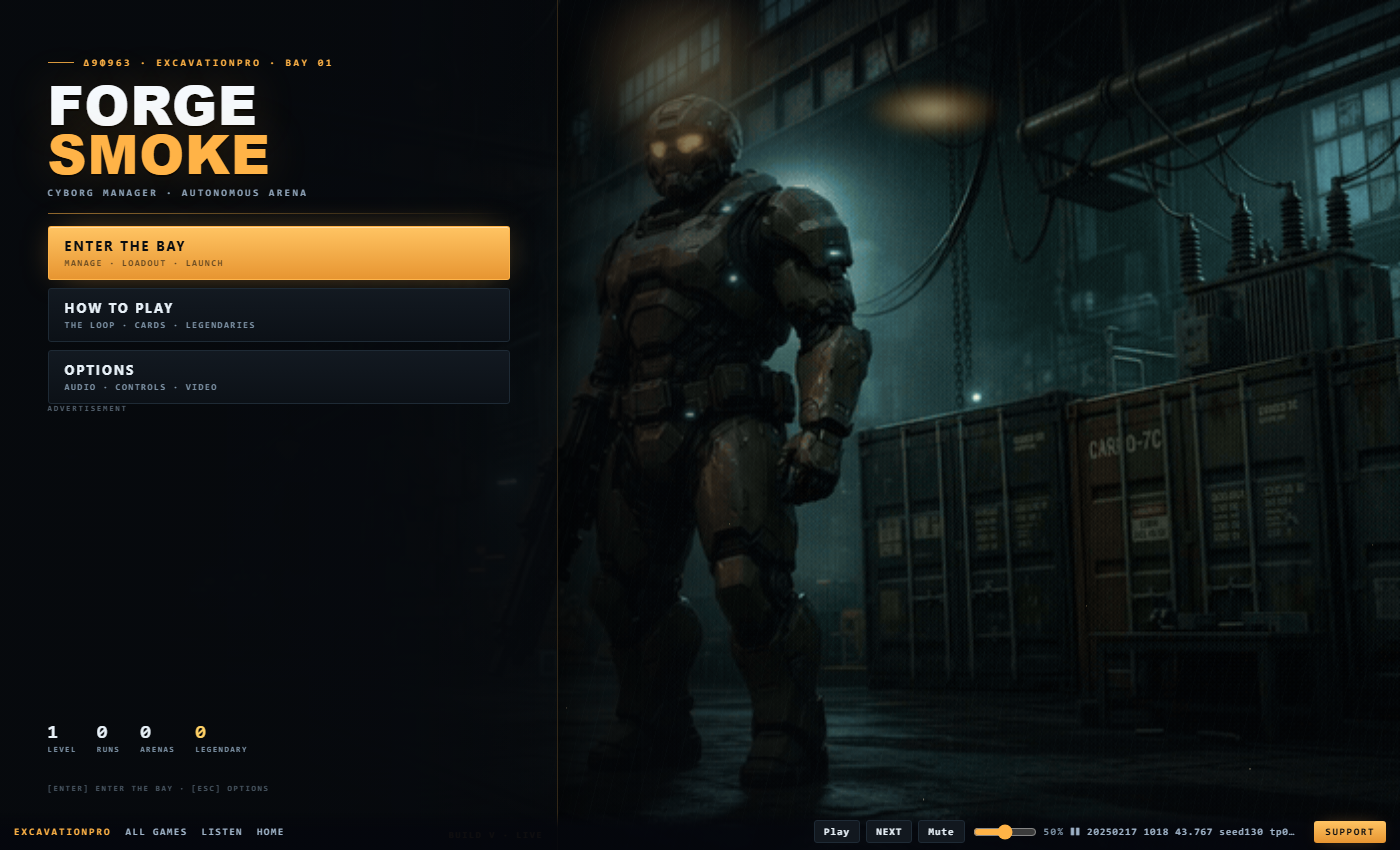
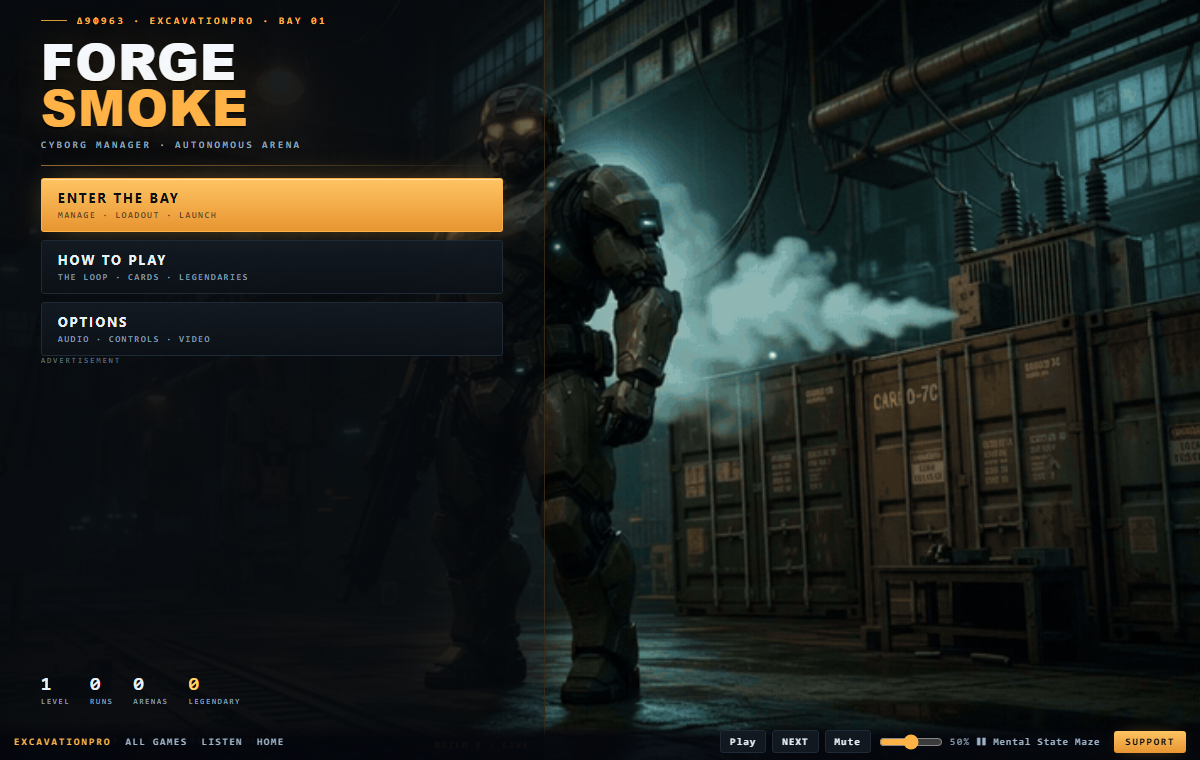
Start screen: the supplied video is now an explicit animated GIF element (regenerated from 'Forge Smoke background start page.mp4', 800x450/10fps, 9.2 MB) instead of a CSS background, so browsers and webviews cannot pause or replace it. Poster stays underneath as fallback.

diff --git a/src/main.js b/src/main.js
@@ -1,8 +1,8 @@
 import * as THREE from "three";
-import { FlowPhase, installStudio, makeRng } from "./studio.js?v=202610324d";
-import { standardMaterial } from "./materials.js?v=202610324d";
-import { makeBush, makeLog, makeTree, swayTree } from "./foliage.js?v=202610324d";
-import { generateWeaponIconAtlas, getWeaponIconUV, createWeaponIconMesh, STYLE_ICON_INDEX, generateWeaponIconDataUrls, loadWeaponIconSheetDataUrls } from "./icons.js?v=202610324d";
+import { FlowPhase, installStudio, makeRng } from "./studio.js?v=202610324e";
+import { standardMaterial } from "./materials.js?v=202610324e";
+import { makeBush, makeLog, makeTree, swayTree } from "./foliage.js?v=202610324e";
+import { generateWeaponIconAtlas, getWeaponIconUV, createWeaponIconMesh, STYLE_ICON_INDEX, generateWeaponIconDataUrls, loadWeaponIconSheetDataUrls } from "./icons.js?v=202610324e";
 import {
   PALETTE,
   TYPE_SCALE,
@@ -12,25 +12,25 @@ import {
   ARENA_LIGHTING,
   POINT_LIGHT_SCALE,
   hexInt,
-} from "./theme.js?v=202610324d";
-import { TUNING } from "./tuning.js?v=202610324d";
-import { spawnDamageNumber, updateDamageNumbers, clearDamageNumbers } from "./damageNumbers.js?v=202610324d";
-import { WeaponManager, CardSystem, Weapon, STYLE_VFX, GRENADE_STYLES } from "./weapons.js?v=202610324d";
-import { createCardTray } from "./cardsui.js?v=202610324d";
-import { buildBrandProps } from "./branding.js?v=202610324d";
-import { createSummary } from "./summaryui.js?v=202610324d";
-import { createBarks } from "./barks.js?v=202610324d";
-import { EnemyManager, ENEMY_TYPES } from "./enemies.js?v=202610324d";
-import { BeatDirector, ScoreSystem, ResultsScreen } from "./director.js?v=202610324d";
-import { bossHp } from "./balance.js?v=202610324d";
-import { loadSave, saveSave, updateBestScore, updateBestTime, getSettings, updateSettings, DEFAULT_SAVE, addProfileXp, grantLegacy, saveProfile } from "./save.js?v=202610324d";
-import { pilot } from "./autopilot.js?v=202610324d";
-import { createManager, statsForLevel, applyStatsToRun, LIGHT_MODS, PERKS } from "./manager.js?v=202610324d";
-import { createStartMenu } from "./startmenu.js?v=202610324d";
-import { createGamepad } from "./gamepad.js?v=202610324d";
-import { createTalentWindow } from "./talentui.js?v=202610324d";
-import { aggregate, toRunMods } from "./talents.js?v=202610324d";
-import { bakeProceduralArtSprites, PROCEDURAL_ART_MODULES } from "./art/index.js?v=202610324d";
+} from "./theme.js?v=202610324e";
+import { TUNING } from "./tuning.js?v=202610324e";
+import { spawnDamageNumber, updateDamageNumbers, clearDamageNumbers } from "./damageNumbers.js?v=202610324e";
+import { WeaponManager, CardSystem, Weapon, STYLE_VFX, GRENADE_STYLES } from "./weapons.js?v=202610324e";
+import { createCardTray } from "./cardsui.js?v=202610324e";
+import { buildBrandProps } from "./branding.js?v=202610324e";
+import { createSummary } from "./summaryui.js?v=202610324e";
+import { createBarks } from "./barks.js?v=202610324e";
+import { EnemyManager, ENEMY_TYPES } from "./enemies.js?v=202610324e";
+import { BeatDirector, ScoreSystem, ResultsScreen } from "./director.js?v=202610324e";
+import { bossHp } from "./balance.js?v=202610324e";
+import { loadSave, saveSave, updateBestScore, updateBestTime, getSettings, updateSettings, DEFAULT_SAVE, addProfileXp, grantLegacy, saveProfile } from "./save.js?v=202610324e";
+import { pilot } from "./autopilot.js?v=202610324e";
+import { createManager, statsForLevel, applyStatsToRun, LIGHT_MODS, PERKS } from "./manager.js?v=202610324e";
+import { createStartMenu } from "./startmenu.js?v=202610324e";
+import { createGamepad } from "./gamepad.js?v=202610324e";
+import { createTalentWindow } from "./talentui.js?v=202610324e";
+import { aggregate, toRunMods } from "./talents.js?v=202610324e";
+import { bakeProceduralArtSprites, PROCEDURAL_ART_MODULES } from "./art/index.js?v=202610324e";
 import {
   PLAYER_SKINS,
   STARTER_LOADOUTS,
@@ -46,20 +46,20 @@ import {
   buildBossMesh,
   segmentHitsCollider,
   warmGlbAssets,
-} from "./models.js?v=202610324d";
-import * as levelModule from "./level.js?v=202610324d";
-import * as menuModule from "./menu.js?v=202610324d";
-import * as audioModule from "./audio.js?v=202610324d";
-import * as fxModule from "./fx.js?v=202610324d";
-import { MAPS, mapById, selectMap } from "./maps.js?v=202610324d";
-import { PICKUP_DEFS, planPickupSites, choosePickup, speedMultiplier, powerMultiplier, HEALTH_SPACING } from "./pickups.js?v=202610324d";
+} from "./models.js?v=202610324e";
+import * as levelModule from "./level.js?v=202610324e";
+import * as menuModule from "./menu.js?v=202610324e";
+import * as audioModule from "./audio.js?v=202610324e";
+import * as fxModule from "./fx.js?v=202610324e";
+import { MAPS, mapById, selectMap } from "./maps.js?v=202610324e";
+import { PICKUP_DEFS, planPickupSites, choosePickup, speedMultiplier, powerMultiplier, HEALTH_SPACING } from "./pickups.js?v=202610324e";
 
 // D3: one readable build stamp, so a stale module in the console is obvious.
 const BUILD = new URL(import.meta.url).searchParams.get("v") || "dev";
 window.__forgeBuild = BUILD;
 console.info("[forge] BUILD " + BUILD);
-import { createCasings } from "./casings.js?v=202610324d";
-import { feelFor, kickImpulse, tracerTaper } from "./stylefeel.js?v=202610324d";
+import { createCasings } from "./casings.js?v=202610324e";
+import { feelFor, kickImpulse, tracerTaper } from "./stylefeel.js?v=202610324e";
 
 const TAU = Math.PI * 2;
 const urlParams = new URLSearchParams(window.location.search);

diff --git a/src/startmenu.js b/src/startmenu.js
@@ -7,7 +7,7 @@
  *
  * Pure DOM. The 3D turntable still runs behind, so if the art is missing the screen still looks alive.
  */
-import { xpForLevel } from "./save.js?v=202610324d";
+import { xpForLevel } from "./save.js?v=202610324e";
 
 const ART = "./assets/start-bg.gif";
 
@@ -30,10 +30,13 @@ const CSS = `
 }
 #fs-start.art{background-image:
     linear-gradient(90deg,rgba(5,7,10,.975) 0%,rgba(5,7,10,.94) 26%,rgba(5,7,10,.60) 44%,rgba(5,7,10,.18) 58%,rgba(5,7,10,0) 70%),
-    url("${ART}");
-  background-size:100% 100%,cover,cover;
+    url("./assets/start-bg-poster.jpg");
+  background-size:100% 100%,cover;
   background-position:center,center;
   background-repeat:no-repeat,no-repeat}
+#fs-start .artgif{position:absolute;inset:0;width:100%;height:100%;object-fit:cover;
+  object-position:center right;opacity:0;transition:opacity .6s ease;pointer-events:none}
+#fs-start.art .artgif{opacity:1}
 #fs-start .artvid{position:absolute;inset:0;width:100%;height:100%;object-fit:cover;opacity:0;
   transition:opacity .7s ease;pointer-events:none}
 #fs-start.playing .artvid{opacity:1}
@@ -157,6 +160,7 @@ export function createStartMenu(opts = {}) {
   root.id = "fs-start";
   root.innerHTML = `
     <div class="artwrap"></div>
+    <img class="artgif" src="./assets/start-bg.gif" alt="" aria-hidden="true" decoding="async" />
     <div class="artfx" aria-hidden="true">
       <i class="lamp"></i>
       <i class="eyes"></i>
@@ -242,11 +246,16 @@ export function createStartMenu(opts = {}) {
     render();
     mountAd();
     root.classList.add("open");
-    // probe the art once; if it is missing the gradient stands in
-    const img = new Image();
-    img.onload = () => root.classList.add("art");
-    img.onerror = () => root.classList.remove("art");
-    img.src = ART;
+    // the GIF element is the backdrop; if it fails the poster/gradient stands in
+    const gif = q(".artgif");
+    if (gif) {
+      const mark = () => root.classList.add("art");
+      if (gif.complete && gif.naturalWidth > 0) mark();
+      else {
+        gif.addEventListener("load", mark, { once: true });
+        gif.addEventListener("error", () => root.classList.remove("art"), { once: true });
+      }
+    }
   }
   function hide() {
     root.classList.remove("open");

diff --git a/src/art/index.js b/src/art/index.js
@@ -1,11 +1,11 @@
-import { draw as drawWeaponSilhouette } from "./weapon_silhouette_module.js?v=202610324d";
-import { draw as drawEnemySilhouette } from "./enemy_silhouette_module.js?v=202610324d";
-import { draw as drawBossSilhouette } from "./boss_silhouette_module.js?v=202610324d";
-import { draw as drawGroundTexture } from "./ground_texture_module.js?v=202610324d";
-import { draw as drawWallTexture } from "./wall_texture_module.js?v=202610324d";
-import { draw as drawCardIconSheet } from "./card_icon_sheet_module.js?v=202610324d";
-import { draw as drawMuzzleFlash } from "./muzzle_flash_module.js?v=202610324d";
-import { draw as drawImpactSpark } from "./impact_spark_module.js?v=202610324d";
+import { draw as drawWeaponSilhouette } from "./weapon_silhouette_module.js?v=202610324e";
+import { draw as drawEnemySilhouette } from "./enemy_silhouette_module.js?v=202610324e";
+import { draw as drawBossSilhouette } from "./boss_silhouette_module.js?v=202610324e";
+import { draw as drawGroundTexture } from "./ground_texture_module.js?v=202610324e";
+import { draw as drawWallTexture } from "./wall_texture_module.js?v=202610324e";
+import { draw as drawCardIconSheet } from "./card_icon_sheet_module.js?v=202610324e";
+import { draw as drawMuzzleFlash } from "./muzzle_flash_module.js?v=202610324e";
+import { draw as drawImpactSpark } from "./impact_spark_module.js?v=202610324e";
 
 export const PROCEDURAL_ART_MODULES = {
   weaponSilhouette: drawWeaponSilhouette,

diff --git a/src/assets.js b/src/assets.js
@@ -3,7 +3,7 @@
  * which files made by studio tools (Blender first) enter a game. Nothing here downloads:
  * `assets/<name>.glb` is committed with the game, served by the studio and copied by export.
  *
- *   import { loadAsset } from "./assets.js?v=202610324d";
+ *   import { loadAsset } from "./assets.js?v=202610324e";
  *   const dog = await loadAsset("dog", { tag: "dog", scale: 0.6 });   // a Group tagged "dog"
  *   scene.add(dog);
  *
@@ -20,7 +20,7 @@ import * as THREE from "three";
 import { GLTFLoader } from "three/addons/loaders/GLTFLoader.js";
 import { MeshoptDecoder } from "three/addons/libs/meshopt_decoder.module.js";
 import { KTX2Loader } from "three/addons/loaders/KTX2Loader.js";
-import { KINDS, bakeTexture } from "./materials.js?v=202610324d";
+import { KINDS, bakeTexture } from "./materials.js?v=202610324e";
 
 const loader = new GLTFLoader().setMeshoptDecoder(MeshoptDecoder);
 /** Call once after creating the renderer before loading Genex KTX2 desktop variants. */

diff --git a/src/manager.js b/src/manager.js
@@ -8,10 +8,10 @@
  * This module is pure DOM. It never touches the renderer: the 3D operator turntable keeps running
  * behind it, so the character model IS the preview.
  */
-import { ARENAS, isArenaUnlocked } from "./menu.js?v=202610324d";
-import { STARTER_LOADOUTS, PLAYER_SKINS } from "./models.js?v=202610324d";
-import { addProfileXp, grantLegacy, saveProfile, xpForLevel } from "./save.js?v=202610324d";
-import { TUNING } from "./tuning.js?v=202610324d";
+import { ARENAS, isArenaUnlocked } from "./menu.js?v=202610324e";
+import { STARTER_LOADOUTS, PLAYER_SKINS } from "./models.js?v=202610324e";
+import { addProfileXp, grantLegacy, saveProfile, xpForLevel } from "./save.js?v=202610324e";
+import { TUNING } from "./tuning.js?v=202610324e";
 
 /** Light mods are cards. `starter` ones can be taken as equipped cards; the rest are found/earned. */
 export const LIGHT_MODS = [

diff --git a/src/foliage.js b/src/foliage.js
@@ -9,7 +9,7 @@
  * transparent gaps, scattered through an ellipsoid. The silhouette breaks, light passes
  * through, the underside darkens, and it sways as a whole.
  *
- *   import { makeTree, makeBush, makeLogPile, swayTree } from "./foliage.js?v=202610324d";
+ *   import { makeTree, makeBush, makeLogPile, swayTree } from "./foliage.js?v=202610324e";
  *   const oak = makeTree({ height: 8, spread: 4, seed: 12 });   // tag "tree"
  *   scene.add(oak);                                              // in update(): swayTree(oak, t, wind)
  *
@@ -17,7 +17,7 @@
  * DataTexture), so it runs under the harness's evaluator as well as in the game.
  */
 import * as THREE from "three";
-import { makeRng, standardMaterial } from "./materials.js?v=202610324d";
+import { makeRng, standardMaterial } from "./materials.js?v=202610324e";
 
 const TAU = Math.PI * 2;
 

diff --git a/src/models.js b/src/models.js
@@ -6,9 +6,9 @@
 import * as THREE from "three";
 import { GLTFLoader } from "three/addons/loaders/GLTFLoader.js";
 import { clone as skeletonClone } from "three/addons/utils/SkeletonUtils.js";
-import { standardMaterial, bakeTexture } from "./materials.js?v=202610324d";
-import { PALETTE, hexInt } from "./theme.js?v=202610324d";
-import { mapById, PROP_COLLIDERS } from "./maps.js?v=202610324d";
+import { standardMaterial, bakeTexture } from "./materials.js?v=202610324e";
+import { PALETTE, hexInt } from "./theme.js?v=202610324e";
+import { mapById, PROP_COLLIDERS } from "./maps.js?v=202610324e";
 
 export const PLAYER_SKINS = [
   {

diff --git a/src/materials.js b/src/materials.js
@@ -5,7 +5,7 @@
  * from every camera, and a whole run shipped exactly that. Everything here bakes on a canvas
  * from a seed, so two builds on one seed produce the same pixels.
  *
- *   import { bakeTexture, triplanar, weather, variant, normalFromHeight } from "./materials.js?v=202610324d";
+ *   import { bakeTexture, triplanar, weather, variant, normalFromHeight } from "./materials.js?v=202610324e";
  *   const { map, roughnessMap, bumpMap } = bakeTexture({ kind: "masonry", seed: 7, palette: [0x6b5a48, 0x8a7a66] });
  *   wall.material = new THREE.MeshStandardMaterial({ map, roughnessMap, bumpMap, bumpScale: 0.6 });
  *

diff --git a/index.html b/index.html
@@ -269,9 +269,9 @@
   });
 </script>
 <!-- the shared listen player: one audio element, keeps playing across start / manager / game -->
-<script src="./assets/radio.js?v=202610324d"></script>
+<script src="./assets/radio.js?v=202610324e"></script>
 <!-- arcade ledger: the shared write path for the live board (mirrors /games/arcade-ledger.js) -->
-<script src="./assets/arcade-ledger.js?v=202610324d"></script>
-<script type="module" src="./src/main.js?v=202610324d"></script>
+<script src="./assets/arcade-ledger.js?v=202610324e"></script>
+<script type="module" src="./src/main.js?v=202610324e"></script>
 </body>
 </html>

diff --git a/src/enemies.js b/src/enemies.js
@@ -4,15 +4,15 @@
  */
 
 import * as THREE from "three";
-import { TUNING } from "./tuning.js?v=202610324d";
-import { enemyHpAt, enemySpeedAt, damageAfterArmour, shieldGate } from "./balance.js?v=202610324d";
+import { TUNING } from "./tuning.js?v=202610324e";
+import { enemyHpAt, enemySpeedAt, damageAfterArmour, shieldGate } from "./balance.js?v=202610324e";
 import {
   buildEnemyMesh,
   animateEnemyMesh,
   arenaColliders,
   resolveObstacleCollision,
   steerAroundObstacles,
-} from "./models.js?v=202610324d";
+} from "./models.js?v=202610324e";
 
 export const ENEMY_TYPES = {
   rifleman: "rifleman",

diff --git a/src/weapons.js b/src/weapons.js
@@ -3,8 +3,8 @@
  * Pure logic, no rendering. Rendering handled by main.js.
  */
 
-import { TUNING } from "./tuning.js?v=202610324d";
-import { weaponStatsWithParts, rollAirdropOptions, rollPart as _rollPart, xpThreshold } from "./balance.js?v=202610324d";
+import { TUNING } from "./tuning.js?v=202610324e";
+import { weaponStatsWithParts, rollAirdropOptions, rollPart as _rollPart, xpThreshold } from "./balance.js?v=202610324e";
 
 const DEFAULT_RELOAD_META = {
   startMult: 1.40,        // Starts 40% slower at Level 1 (~0.71x speed)

diff --git a/src/math.js b/src/math.js
@@ -6,13 +6,13 @@
  * spread, falloff and the run-XP formula. Nothing here touches THREE or the DOM.
  */
 
-import { TUNING } from "./tuning.js?v=202610324d";
+import { TUNING } from "./tuning.js?v=202610324e";
 import {
   shieldGate as gate,
   bossHp as bossCurve,
   xpThreshold as xpCurve,
   timeToKill as ttk,
-} from "./balance.js?v=202610324d";
+} from "./balance.js?v=202610324e";
 
 /** Every constant in one place, each with the reason it has that value. */
 export const MATH = Object.freeze({
